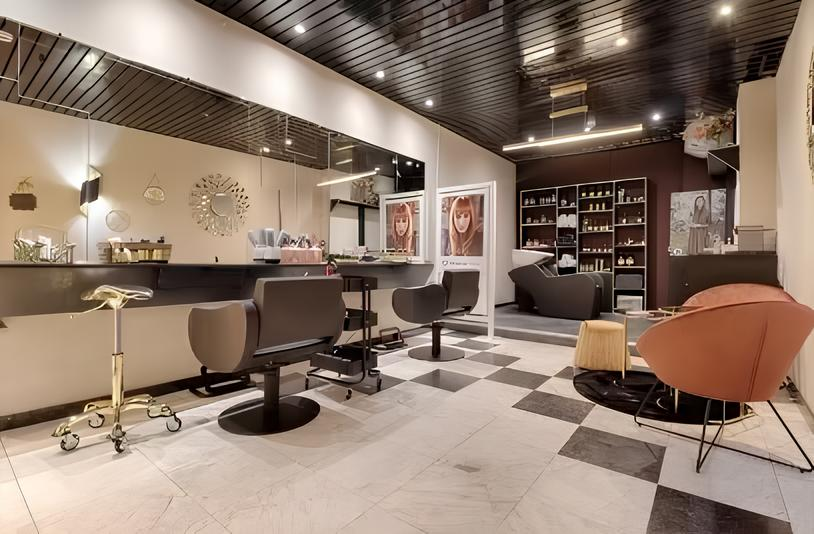
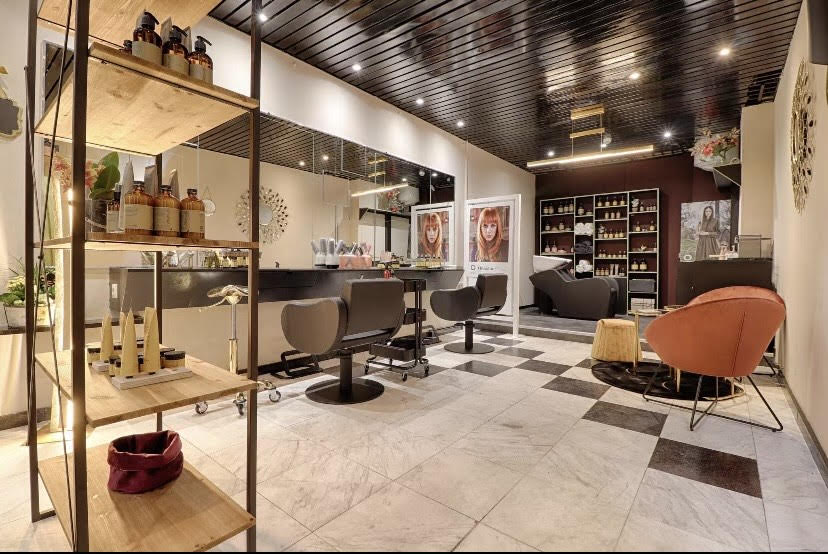
fix bug

diff --git a/data/services.ts b/data/services.ts
@@ -11,49 +11,56 @@ export interface ServiceCategory {
 
 export const services: ServiceCategory[] = [
   {
-    category: "Femme",
+    category: "Coupes",
     prestations: [
-      { name: "Shampoing + Brushing – Cheveux Courts", duration: "40min", price: "26 €" },
-      { name: "Shampoing + Brushing – Cheveux Mi-Longs", duration: "45min", price: "28 €" },
-      { name: "Shampoing + Brushing – Cheveux Longs", duration: "1h", price: "32 €" },
-      { name: "Shampoing + Coupe + Brushing – Cheveux Courts", duration: "40min", price: "à partir de 43 €" },
-      { name: "Shampoing + Coupe + Brushing – Cheveux Mi-Longs", duration: "50min", price: "à partir de 45 €" },
+      { name: "Coupe femme + soin", duration: "1h", price: "à partir de 55 €" },
+      { name: "Coupe enfant (6–12 ans)", duration: "30min", price: "25 €" },
+      { name: "Coupe homme", duration: "30min", price: "25 €" },
     ],
   },
   {
-    category: "Couleur",
+    category: "Brushing",
     prestations: [
-      { name: "Couleur + Shampoing + Brushing – Cheveux Courts", duration: "1h 40min", price: "à partir de 70 €" },
-      { name: "Couleur + Shampoing + Brushing – Cheveux Mi-Longs", duration: "1h 45min", price: "à partir de 72 €" },
-      { name: "Couleur + Shampoing + Brushing – Cheveux Longs", duration: "2h", price: "à partir de 78 €" },
-      { name: "Couleur + Shampoing + Coupe + Brushing – Cheveux Courts", duration: "1h 40min", price: "à partir de 87 €" },
-      { name: "Couleur + Shampoing + Coupe + Brushing – Cheveux Mi-Longs", duration: "1h 45min", price: "à partir de 89 €" },
+      { name: "Brushing", duration: "45min", price: "à partir de 35 €" },
     ],
   },
   {
-    category: "Couleur sans ammoniaque",
+    category: "Étudiant(e) -26 ans",
     prestations: [
-      { name: "Couleur sans ammoniaque + Shampoing + Brushing – Cheveux Courts", duration: "1h 40min", price: "à partir de 72 €" },
-      { name: "Couleur sans ammoniaque + Shampoing + Brushing – Cheveux Mi-Longs", duration: "1h 45min", price: "à partir de 74 €" },
-      { name: "Couleur sans ammoniaque + Shampoing + Brushing – Cheveux Longs", duration: "2h", price: "à partir de 80 €" },
+      { name: "Coupe étudiant(e)", duration: "45min", price: "à partir de 30 €" },
     ],
   },
   {
-    category: "Balayage & Mèches",
+    category: "Balayage",
     prestations: [
-      { name: "Balayage + Shampoing + Brushing – Cheveux Courts", duration: "2h", price: "à partir de 95 €" },
-      { name: "Balayage + Shampoing + Brushing – Cheveux Mi-Longs", duration: "2h 30min", price: "à partir de 105 €" },
-      { name: "Balayage + Shampoing + Brushing – Cheveux Longs", duration: "3h", price: "à partir de 115 €" },
-      { name: "Mèches + Shampoing + Brushing", duration: "2h", price: "à partir de 85 €" },
+      { name: "Balayage + coupe + brushing", duration: "3h", price: "à partir de 180 €" },
+      { name: "Balayage + brushing", duration: "2h 30min", price: "à partir de 120 €" },
+      { name: "Balayage cheveux longs + brushing", duration: "3h 30min", price: "à partir de 195 €" },
     ],
   },
   {
-    category: "Soins Capillaires",
+    category: "Décoloration",
     prestations: [
-      { name: "Soin Réparateur Intense", duration: "30min", price: "35 €" },
-      { name: "Soin Hydratant", duration: "25min", price: "30 €" },
-      { name: "Soin Anti-Frisottis", duration: "30min", price: "32 €" },
-      { name: "Traitement Capillaire Complet", duration: "45min", price: "50 €" },
+      { name: "Décoloration + coupe + brushing", duration: "2h 30min", price: "à partir de 160 €" },
+      { name: "Coulage", duration: "1h 30min", price: "à partir de 50 €" },
+    ],
+  },
+  {
+    category: "Coloration",
+    prestations: [
+      { name: "Coloration + coupe + brushing", duration: "2h 30min", price: "à partir de 110 €" },
+      { name: "Coloration + brushing", duration: "2h", price: "à partir de 95 €" },
+      { name: "Coloration + mèches + brushing", duration: "2h", price: "à partir de 80 €" },
+      { name: "Ombré / Tie and Dye", duration: "2h 30min", price: "à partir de 80 €" },
+    ],
+  },
+  {
+    category: "Soin",
+    prestations: [
+      { name: "Lissage brésilien", duration: "3h", price: "à partir de 180 €" },
+      { name: "Botox profond", duration: "1h 30min", price: "à partir de 90 €" },
+      { name: "Soin Gemona", duration: "1h 30min", price: "à partir de 90 €" },
+      { name: "Chignon / attache", duration: "1h", price: "52 €" },
     ],
   },
 ];

diff --git a/app/components/About.tsx b/app/components/About.tsx
@@ -7,7 +7,7 @@ export default function About() {
         {/* Image à gauche */}
         <div className="relative w-full h-[400px] rounded-2xl overflow-hidden shadow-lg">
           <Image
-            src="/images/about-patricia.jpg" // 👉 à remplacer par une vraie photo du salon ou de Patricia
+            src="/images/about-patricia.jpeg" // 👉 à remplacer par une vraie photo du salon ou de Patricia
             alt="Salon de coiffure Patricia Osores à Liège"
             fill
             className="object-cover"
@@ -20,13 +20,13 @@ export default function About() {
             À propos du salon
           </h2>
           <p className="text-lg leading-relaxed mb-4">
-            Depuis plus de <strong>4 ans</strong>, le <strong>Salon Patricia Osores</strong> 
+            Depuis plus de <strong>4 ans</strong>, le <strong>Salon Patricia Osores </strong> 
             à Liège offre à chaque client une expérience unique, alliant expertise, écoute et élégance.
           </p>
           <p className="text-lg leading-relaxed mb-4">
-            Patricia met tout son savoir-faire au service de votre beauté, dans une 
+            Je mets tout mon savoir-faire au service de votre beauté, dans une 
             atmosphère <strong>chaleureuse et authentique</strong> où chaque détail compte.  
-            Le salon reflète son goût pour l’harmonie, le soin et la mise en valeur naturelle de chacun.
+            Le salon reflète mon goût pour l’harmonie, le soin et la mise en valeur naturelle de chacun.
           </p>
           <p className="text-lg leading-relaxed">
             Que vous souhaitiez une coupe, une couleur, ou un relooking complet, 

diff --git a/app/components/Gallery.tsx b/app/components/Gallery.tsx
@@ -3,28 +3,28 @@ import Image from "next/image";
 export default function Gallery() {
   const photos = [
     {
-      src: "/images/gallery-coupe1.jpg",
-      alt: "Coupe courte élégante - Salon Patricia Osores",
+      src: "/images/gallery-coupe1.jpeg",
+      alt: "Salon Patricia Osores",
     },
     {
-      src: "/images/gallery-coloration1.jpg",
-      alt: "Coloration dorée naturelle - Salon Patricia Osores",
+      src: "/images/gallery-coloration1.jpeg",
+      alt: "alon Patricia Osores",
     },
     {
       src: "/images/gallery-soin1.jpg",
-      alt: "Soin capillaire revitalisant - Salon Patricia Osores",
+      alt: "Salon Patricia Osores",
     },
     {
-      src: "/images/gallery-coiffure1.jpg",
-      alt: "Coiffure de soirée chic - Salon Patricia Osores",
+      src: "/images/gallery-coiffure1.jpeg",
+      alt: "Salon Patricia Osores",
     },
     {
-      src: "/images/gallery-balayage1.jpg",
-      alt: "Balayage lumineux - Salon Patricia Osores",
+      src: "/images/gallery-balayage1.jpeg",
+      alt: "Salon Patricia Osores",
     },
     {
-      src: "/images/gallery-coupe2.jpg",
-      alt: "Brushing naturel - Salon Patricia Osores",
+      src: "/images/gallery-coupe2.jpeg",
+      alt: "Salon Patricia Osores",
     },
   ];
 

diff --git a/app/components/Testimonials.tsx b/app/components/Testimonials.tsx
@@ -1,15 +1,15 @@
 const testimonials = [
   {
-    name: "Sophie D.",
-    text: "Patricia est incroyable ! Elle a su comprendre exactement ce que je voulais. Le résultat est sublime et l’ambiance du salon est très apaisante.",
+    name: "Jingwen",
+    text: "Très gentil, eficaz, prix correct. J’ai bien aimer le résultat. La coiffeuse Patricia elle sais parler espagnol , français et anglais.",
   },
   {
-    name: "Laura M.",
-    text: "Un accueil chaleureux, des conseils professionnels et une coupe parfaite à chaque fois. Je recommande les yeux fermés !",
+    name: "Dannia",
+    text: "Une très bonne expérience ! J'ai adoré la coupe. Patricia est très sympathique.",
   },
   {
-    name: "Isabelle P.",
-    text: "C’est plus qu’un salon, c’est un vrai moment de détente. J’adore la déco, les produits et surtout le professionnalisme de Patricia.",
+    name: "Ambre",
+    text: "J’adore le rendu ! Coiffeuse super agréable et professionnelle je recommande à 100% de bon produits utilisés en plus.",
   },
 ];
 

diff --git a/app/components/Services.tsx b/app/components/Services.tsx
@@ -13,13 +13,13 @@ export default function Services() {
       name: "Coloration & Balayage",
       description:
         "Des couleurs lumineuses et naturelles adaptées à votre teint et votre personnalité.",
-      image: "/images/service-coloration.jpg",
+      image: "/images/service-coloration.jpeg",
       link: "#rendezvous",
     },
     {
-      name: "Soins Capillaires",
+      name: "Lissage brésilien & Botox capillaire",
       description:
-        "Des soins nourrissants pour redonner force, brillance et vitalité à vos cheveux.",
+        "Des soins intensifs pour des cheveux lisses, brillants et revitalisés.",
       image: "/images/service-soin.jpg",
       link: "#rendezvous",
     },

diff --git a/app/components/Hero.tsx b/app/components/Hero.tsx
@@ -11,7 +11,7 @@ export default function Hero() {
     >
       {/* Image de fond */}
       <Image
-        src="/images/hero-coiffure.jpg" // 👉 tu remplaceras par une photo du salon ou d'une coiffure
+        src="/images/about-patricia.jpg" // 👉 tu remplaceras par une photo du salon ou d'une coiffure
         alt="Salon de coiffure Patricia Osores"
         fill
         priority
